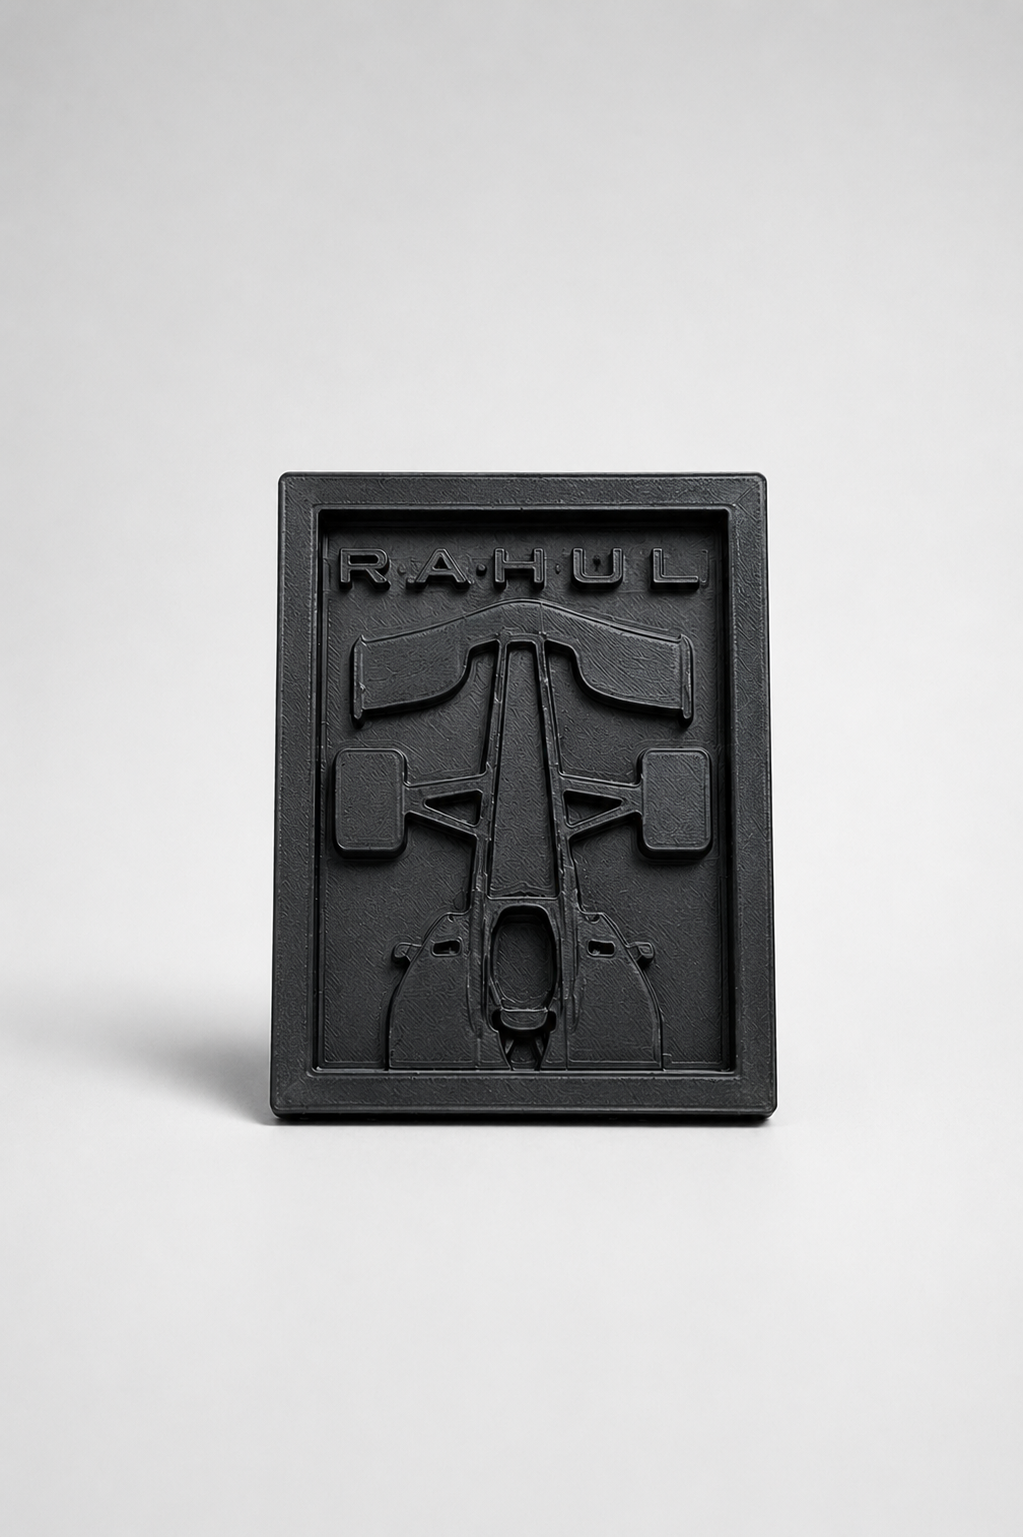
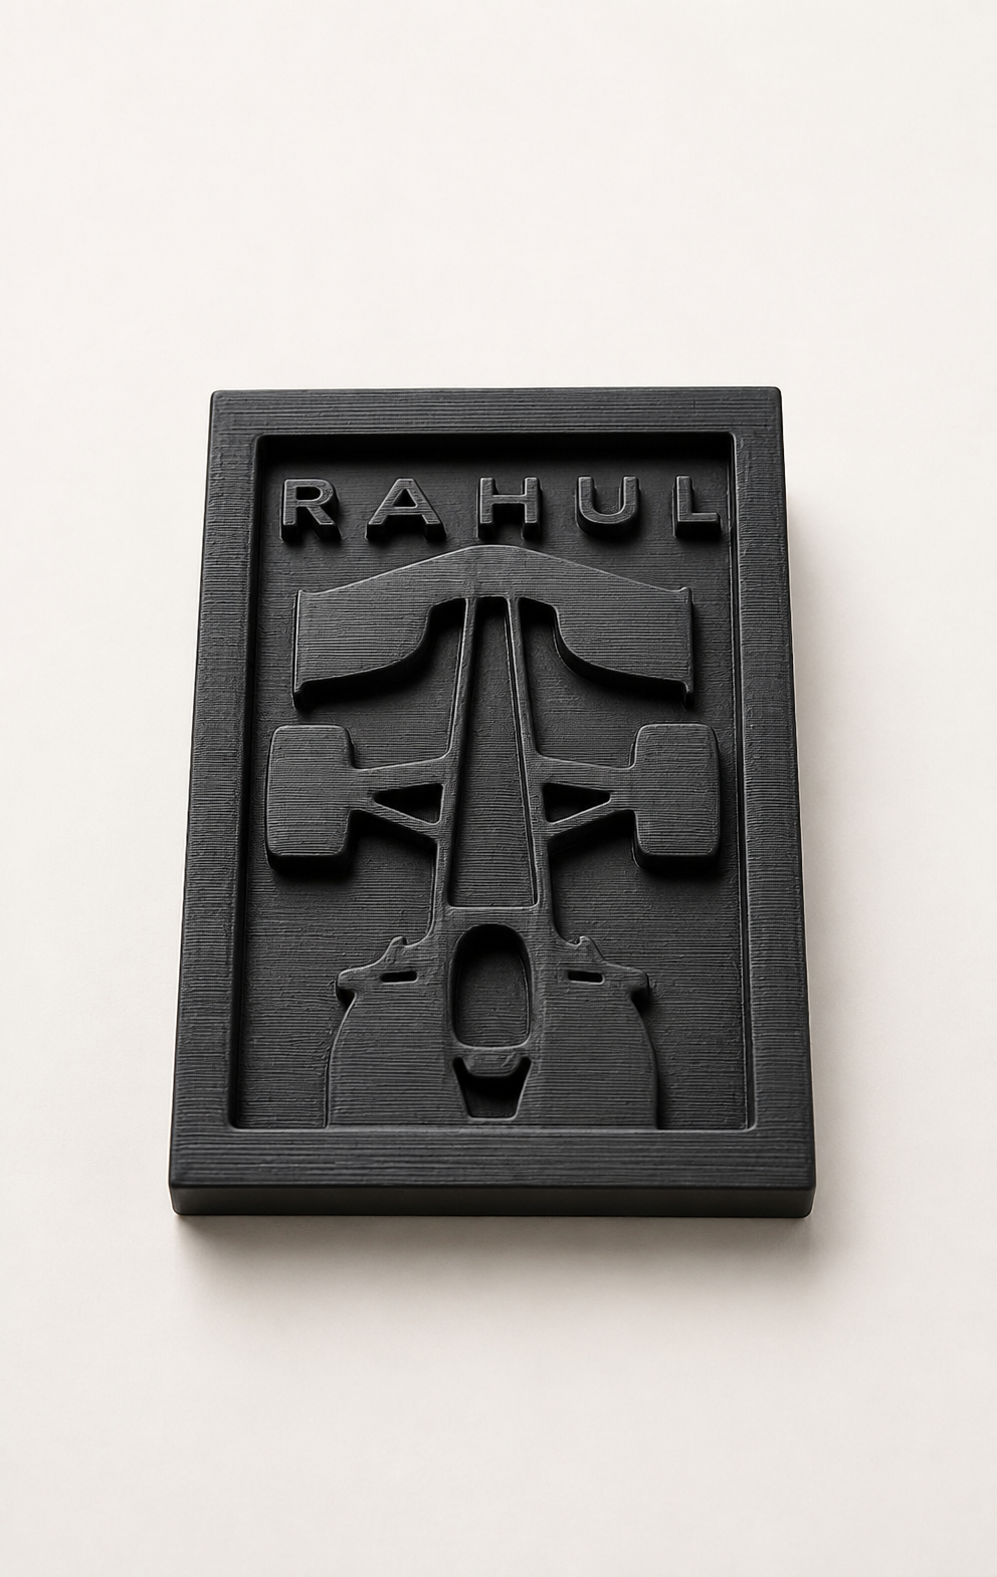
dimensions added

diff --git a/index.html b/index.html
@@ -1188,7 +1188,7 @@
                     data-desc="Carry your name wherever you go with a sleek, personalized 3D-printed keychain. A perfect everyday accessory and a thoughtful gift for friends and family."
                     data-images="Keychain.png,KeychainGrey.png,KeychainBlack.png"
                     data-colors="white,gray,black"
-                    data-len="6cm" data-bre="3cm" data-hei="0.8cm">
+                    data-len="6.26cm" data-bre="2.26cm" data-hei="0.8cm">
                     <div class="mock-thumb">
                         <span class="mock-badge accent">Bestseller</span>
                         <img src="Keychain.png" alt="Normal Keychain" loading="lazy">
@@ -1208,7 +1208,7 @@
                 data-desc="Celebrate your passion for Formula 1 with a customized name frame. Designed for racing enthusiasts, it's a stylish décor piece for your desk or wall."
                 data-images="F1_frame.png"
                 data-colors=""
-                data-len="28cm" data-bre="18cm" data-hei="12cm">
+                data-len="4cm" data-bre="5.3cm" data-hei="0.5cm">
                 <div class="mock-thumb">
                     <img src="F1_frame.png" alt="F1 frame" loading="lazy">
                 </div>
@@ -1227,7 +1227,7 @@
             data-desc="Give your plants a modern home with our uniquely designed 3D-printed planter. Lightweight, durable, and perfect for adding a touch of greenery to any space."
             data-images="Planter.png,PlanterBlack.png"
             data-colors="white"
-            data-len="12cm" data-bre="12cm" data-hei="14cm">
+            data-len="14cm" data-bre="14cm" data-hei="26cm">
             <div class="mock-thumb">
                 <img src="Planter.png" alt="Planter" loading="lazy">
             </div>
@@ -1246,7 +1246,7 @@
         data-desc="Turn your car into a personalized miniature with your vehicle's real details. A perfect keepsake for car lovers and an unforgettable gift."
         data-images="Car.png,CarBlack.png"
         data-colors="white,black"
-        data-len="14cm" data-bre="6cm" data-hei="5cm">
+        data-len="6.3cm" data-bre="5cm" data-hei="0.88cm">
         <div class="mock-thumb">
             <img src="Car.png" alt="Name car" loading="lazy">
         </div>
@@ -1271,7 +1271,7 @@
         data-desc="Brighten your space with a uniquely designed 3D-printed table lamp. A perfect blend of modern aesthetics and functional lighting for your home or workspace."
         data-images="Lamp.png,Lamp2.png"
         data-colors="white"
-        data-len="20cm" data-bre="20cm" data-hei="30cm">
+        data-len="9.4cm" data-bre="9.4cm" data-hei="13.3cm">
         <div class="mock-thumb">
             <img src="Lamp.png" alt="Lamp" loading="lazy">
         </div>
@@ -1290,7 +1290,7 @@
     data-desc="Add warmth and character to your room with our beautifully crafted Owl Lamp. Designed to create a cozy ambience while doubling as a unique décor piece."
     data-images="Owl.jpeg,Owl2.png"
     data-colors="white"
-    data-len="10cm" data-bre="8cm" data-hei="14cm">
+    data-len="4.3cm" data-bre="5cm" data-hei="6.1cm">
     <div class="mock-thumb">
         <span class="mock-badge">New</span>
         <img src="Owl.jpeg" alt="Owl Decor" loading="lazy">
@@ -1310,7 +1310,7 @@
 data-desc="Showcase your brand in style with a custom logo lamp. Ideal for offices, reception areas, exhibitions, or as a premium corporate gift."
 data-images="LogoLamp.png,LogoLamp2.png"
 data-colors="white"
-data-len="12cm" data-bre="12cm" data-hei="18cm">
+data-len="6.2cm" data-bre="8.7cm" data-hei="7cm">
 <div class="mock-thumb">
     <span class="mock-badge">New</span>
     <img src="LogoLamp.png" alt="Logo Lamp" loading="lazy">
@@ -1330,7 +1330,7 @@ data-len="12cm" data-bre="12cm" data-hei="18cm">
 data-desc="Bring peace and inspiration to your space with our finely crafted Adiyogi Statue. A meaningful décor piece for homes, meditation rooms, and gifting."
 data-images="Adiyogi.png,AdiyogiBlack.png"
 data-colors="white,black"
-data-len="8cm" data-bre="6cm" data-hei="14cm">
+data-len="8.4cm" data-bre="5.7cm" data-hei="5.8cm">
 <div class="mock-thumb">
     <img src="Adiyogi.png" alt="Adiyogi" loading="lazy">
 </div>
